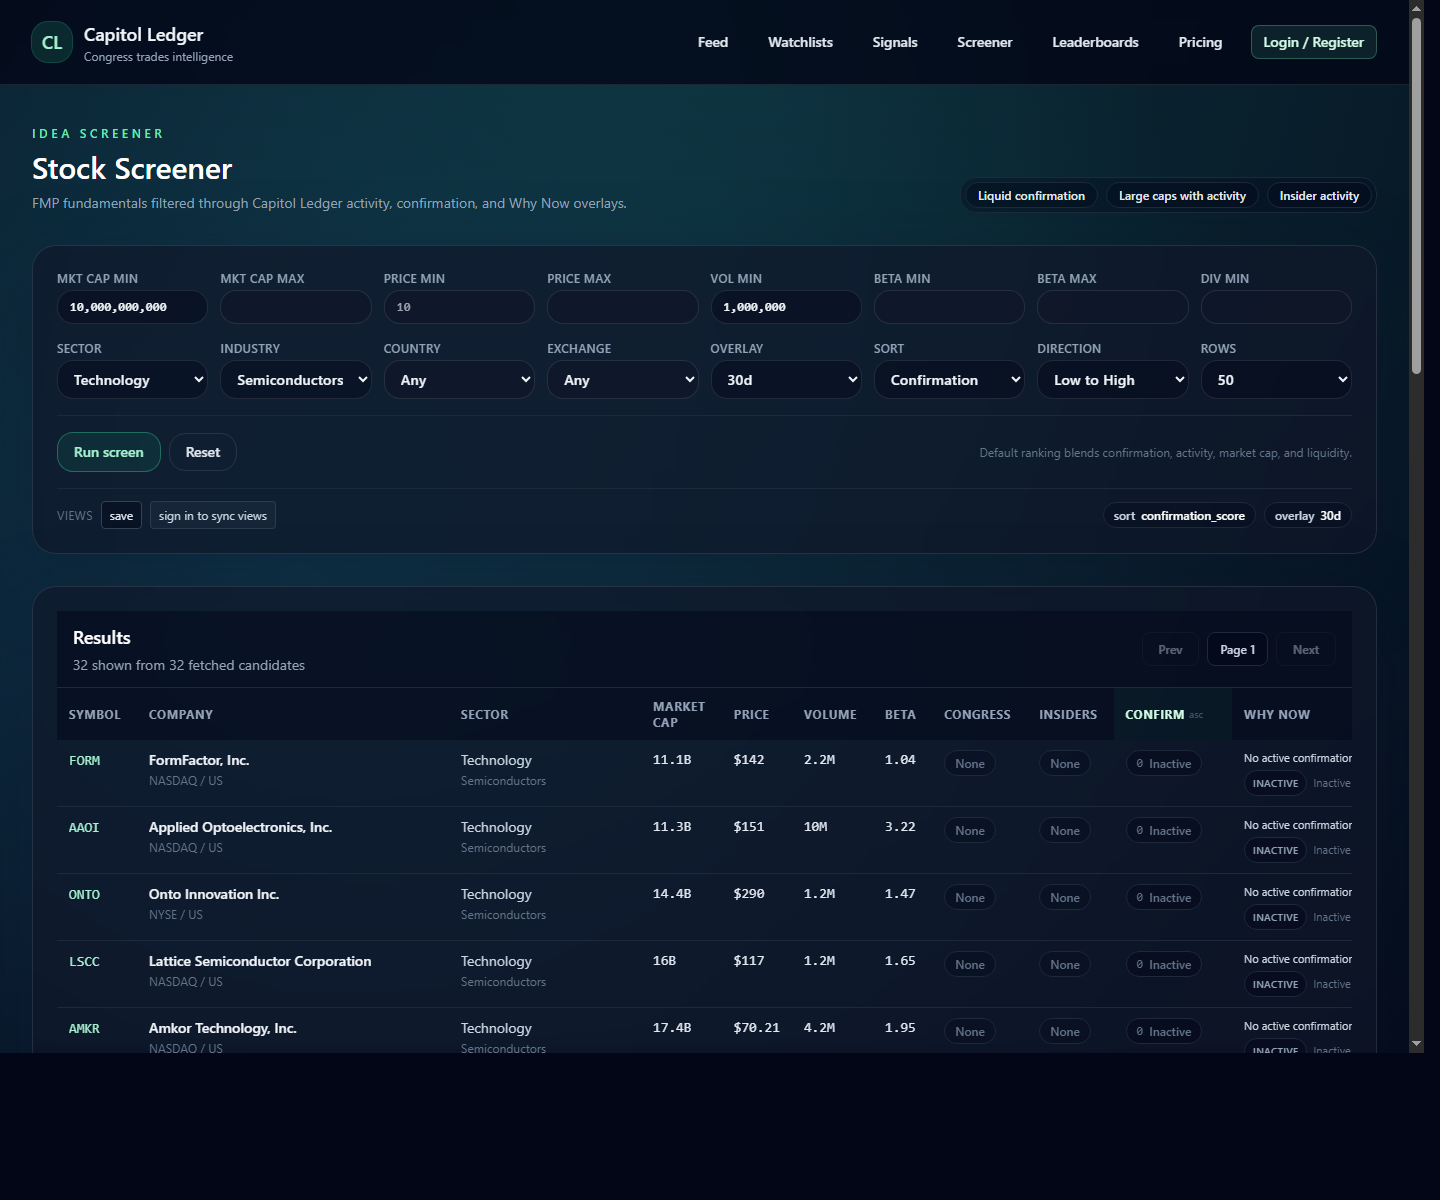
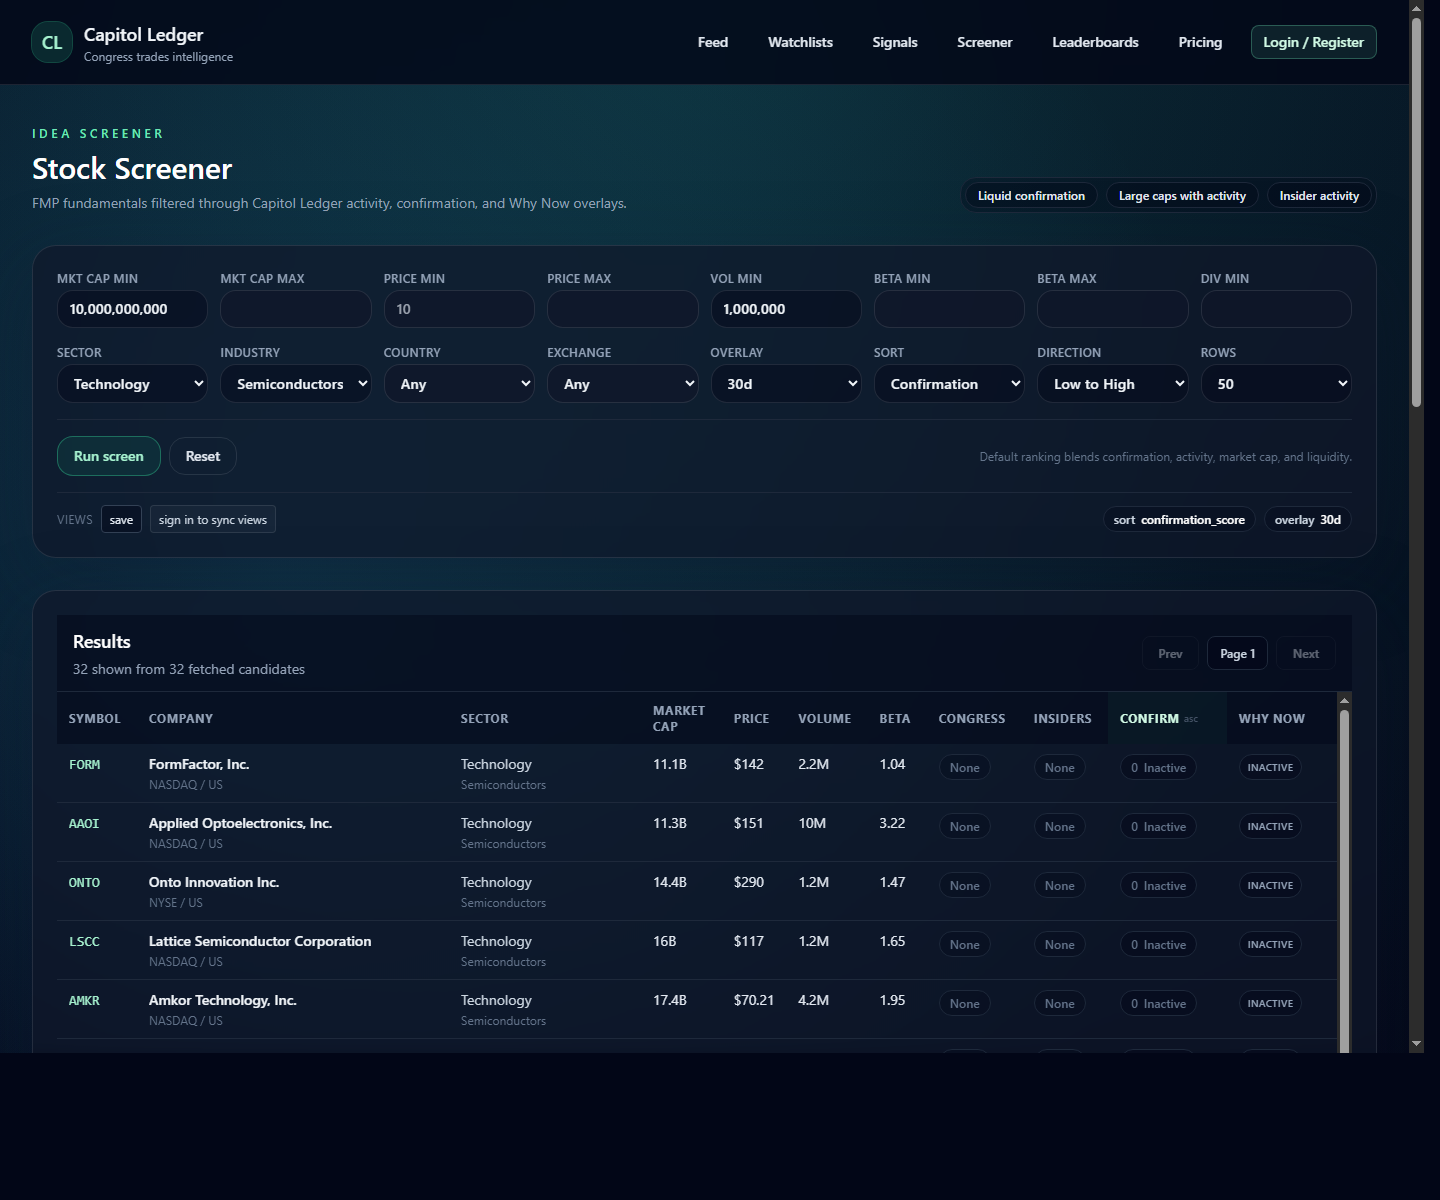
Polish screener typography and Why Now hover

diff --git a/frontend/app/screener/page.tsx b/frontend/app/screener/page.tsx
@@ -142,7 +142,7 @@ const segmentShellClassName = "flex flex-wrap items-center gap-2 rounded-2xl bor
 const segmentLinkClassName =
   "inline-flex items-center justify-center rounded-full border border-slate-800 bg-slate-950/30 px-3 py-1 text-xs font-medium text-slate-200 transition hover:bg-slate-900/60 hover:text-white";
 const tableCellClassName = "px-3 py-2.5 align-top";
-const tableMetricClassName = `${tableCellClassName} whitespace-nowrap font-mono text-slate-200`;
+const tableMetricClassName = `${tableCellClassName} whitespace-nowrap tabular-nums text-slate-200`;
 const compactBadgeClassName = "inline-flex items-center gap-1.5 rounded-full border px-2.5 py-1 text-xs font-medium";
 const tinyStateBadgeClassName =
   "inline-flex shrink-0 items-center rounded-full border px-2 py-0.5 text-[10px] font-semibold uppercase tracking-wide";
@@ -293,8 +293,6 @@ function titleCase(value: string): string {
 }
 
 function FilterInput({ name, label, value, placeholder }: { name: string; label: string; value?: string | number; placeholder?: string }) {
-  const numericClassName = NUMERIC_PARAM_KEYS.has(name) ? " font-mono text-xs" : "";
-  const baseClassName = `${inputClassName}${numericClassName}`;
   return (
     <label className={filterLabelClassName}>
       {label}
@@ -302,7 +300,7 @@ function FilterInput({ name, label, value, placeholder }: { name: string; label:
         name={name}
         defaultValue={formatInputNumber(value)}
         placeholder={placeholder}
-        className={value ? `${baseClassName} border-emerald-500/40 bg-slate-950/40` : baseClassName}
+        className={value ? `${inputClassName} border-emerald-500/40 bg-slate-950/40` : inputClassName}
       />
     </label>
   );
@@ -582,6 +580,31 @@ function SortHeader({ params, sort, label }: { params: Record<string, string | n
   );
 }
 
+function WhyNowHover({ row }: { row: ScreenerRow }) {
+  const stateLabel = titleCase(row.why_now.state);
+  const tooltipId = `why-now-${row.symbol}`;
+  return (
+    <div className="group/why relative inline-flex max-w-full items-center">
+      <button
+        type="button"
+        aria-describedby={tooltipId}
+        className={`${tinyStateBadgeClassName} ${whyNowClass(row.why_now.state, row.confirmation.direction)} cursor-help transition hover:border-white/20 focus-visible:outline-none focus-visible:ring-2 focus-visible:ring-emerald-400/30`}
+      >
+        {stateLabel}
+      </button>
+      <div
+        id={tooltipId}
+        role="tooltip"
+        className="pointer-events-none invisible absolute right-0 top-full z-30 mt-2 w-72 rounded-xl border border-white/10 bg-slate-950/95 p-3 text-left opacity-0 shadow-2xl shadow-black/40 backdrop-blur transition group-hover/why:visible group-hover/why:opacity-100 group-focus-within/why:visible group-focus-within/why:opacity-100"
+      >
+        <p className="text-[11px] font-semibold uppercase tracking-wide text-slate-500">Why now</p>
+        <p className="mt-1 text-sm leading-5 text-slate-100">{row.why_now.headline}</p>
+        <p className="mt-2 text-xs leading-4 text-slate-500">{row.confirmation.status}</p>
+      </div>
+    </div>
+  );
+}
+
 function ScreenerTableRow({ row }: { row: ScreenerRow }) {
   const href = tickerHref(row.symbol) ?? row.ticker_url ?? `/ticker/${encodeURIComponent(row.symbol)}`;
   return (
@@ -619,20 +642,12 @@ function ScreenerTableRow({ row }: { row: ScreenerRow }) {
       </td>
       <td className={`${tableCellClassName} whitespace-nowrap`}>
         <span className={`${compactBadgeClassName} ${confirmationClass(row.confirmation.band)}`} title={row.confirmation.status}>
-          <span className="font-mono">{row.confirmation.score}</span>
+          <span className="tabular-nums">{row.confirmation.score}</span>
           <span>{titleCase(row.confirmation.band)}</span>
         </span>
       </td>
-      <td className={`${tableCellClassName} min-w-[18rem] max-w-[22rem]`}>
-        <div className="max-w-[22rem]" title={row.why_now.headline}>
-          <div className="truncate text-[11px] leading-4 text-slate-300">{row.why_now.headline}</div>
-          <div className="mt-1 flex min-w-0 items-center gap-1.5">
-            <span className={`${tinyStateBadgeClassName} ${whyNowClass(row.why_now.state, row.confirmation.direction)}`}>
-              {titleCase(row.why_now.state)}
-            </span>
-            <span className="truncate text-[11px] leading-4 text-slate-500">{row.confirmation.status}</span>
-          </div>
-        </div>
+      <td className={`${tableCellClassName} min-w-[8rem] max-w-[10rem]`}>
+        <WhyNowHover row={row} />
       </td>
       <td className={`${tableCellClassName} whitespace-nowrap text-right`}>
         <AddTickerToWatchlist symbol={row.symbol} variant="compact" align="right" />
